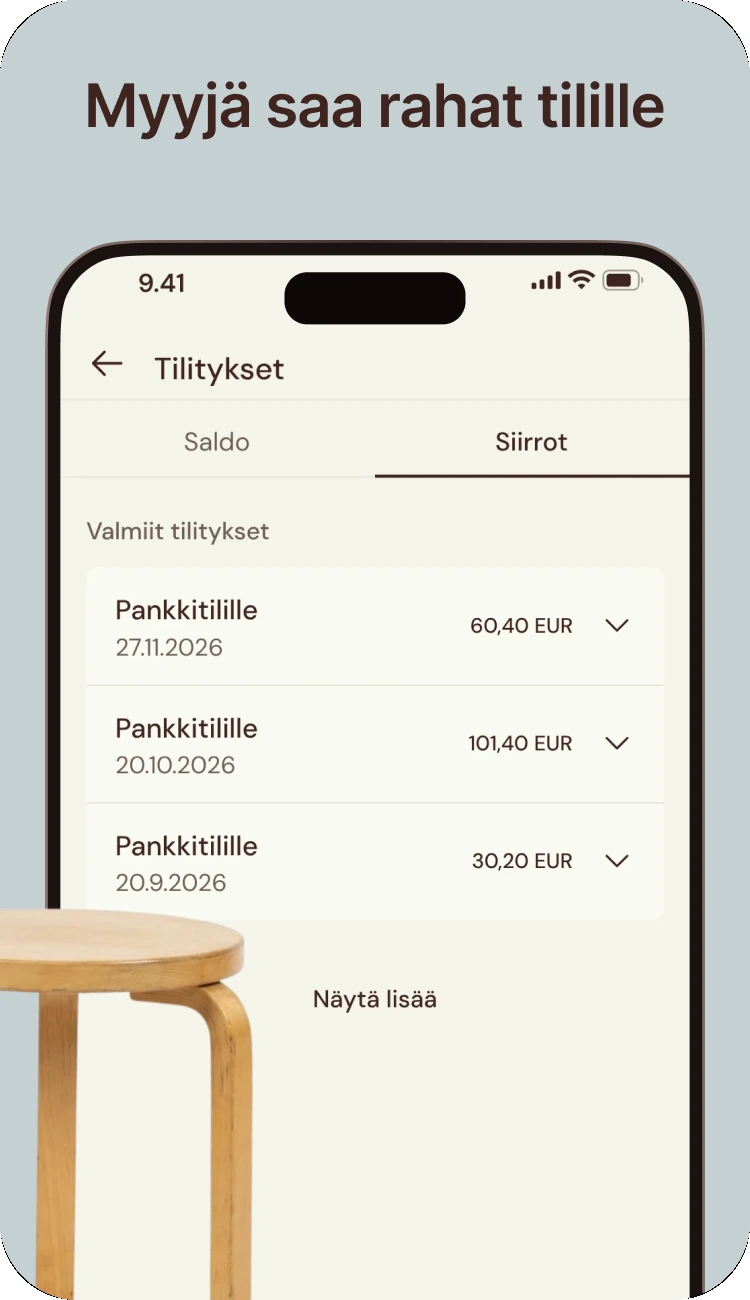
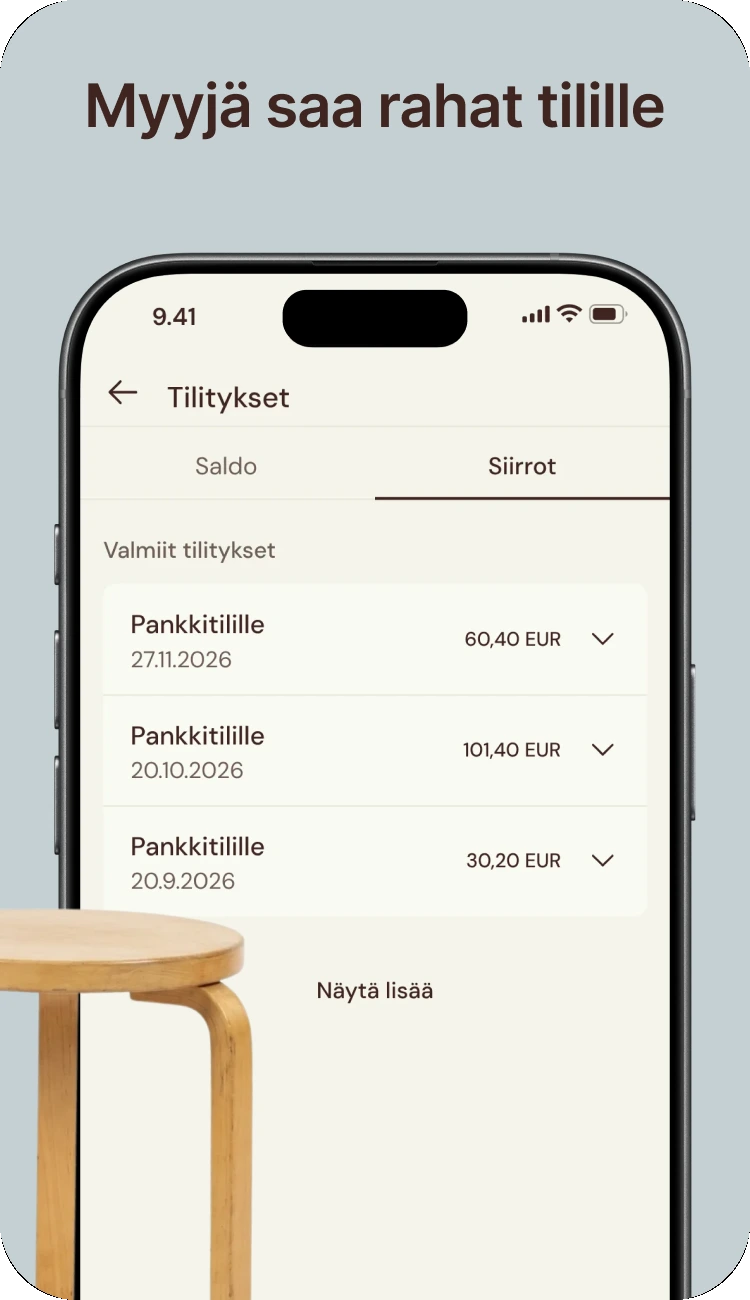
Mockupit Applen virallisiin kehyksiin: iPhone 17 ja iPad Air 11 (desktop, mobiili, Figma)
Claude-Session: https://claude.ai/code/session_01GFdz22wxCZYfy3LenkEfZr

diff --git a/resella.html b/resella.html
@@ -338,11 +338,12 @@ section[id]{scroll-margin-top:72px}
 .ap-grid.on .ap-card:nth-child(2){transition-delay:.08s}.ap-grid.on .ap-card:nth-child(3){transition-delay:.16s}
 .ap-card h3{position:relative;z-index:2;font-family:var(--fd);font-weight:600;font-size:clamp(18px,1.75vw,25px);letter-spacing:-.015em;line-height:1.18;margin:0;padding:clamp(26px,3vw,44px) clamp(22px,2.6vw,40px) 0;max-width:20ch}
 .ap-card.bot h3,.ap-card.photo h3{margin-top:auto;padding:0 clamp(22px,2.6vw,40px) clamp(26px,3vw,44px)}
-.ap-phone{position:absolute;left:50%;width:78%;transform:translateX(-50%);background:#1C1310;border-radius:13.9%/6.8%;padding:2.3%;box-shadow:inset 0 0 0 1.5px rgba(140,120,112,.6);z-index:1}
+.ap-phone{position:absolute;left:50%;width:78%;aspect-ratio:1350/2760;transform:translateX(-50%);z-index:1}
+.ap-phone::after{content:"";position:absolute;inset:0;background:url(assets/laitteet/iphone17-kehys.webp?v=1) center/100% 100% no-repeat;z-index:3;pointer-events:none}
 .ap-card.top .ap-phone{top:26%}
 .ap-card.bot .ap-phone{bottom:27%}
-.ap-phone img{display:block;width:100%;height:auto;border-radius:12.3%/5.8%}
-.ap-isl{position:absolute;top:2.4%;left:50%;width:27.4%;aspect-ratio:120/35;transform:translateX(-50%);background:#0D0806;border-radius:999px;z-index:2}
+.ap-phone img{position:absolute;left:5.33%;top:2.5%;width:89.34%;height:95%;object-fit:cover;object-position:50% 0;border-radius:15.6%/7.17%;display:block;z-index:1}
+.ap-isl{position:absolute;top:3.7%;left:50%;width:28%;aspect-ratio:378/111;transform:translateX(-50%);background:#000;border-radius:999px;z-index:2}
 .ap-rc{position:absolute;left:9%;right:9%;top:42%;background:var(--bg);border-radius:20px;padding:clamp(16px,1.6vw,24px);display:flex;flex-direction:column;gap:clamp(8px,.8vw,12px);font-size:clamp(13px,1.05vw,15px);text-align:left}
 .ap-rc-top,.ap-rc-row,.ap-rc-tot{display:flex;justify-content:space-between;gap:12px}
 .ap-rc-top{font-size:clamp(15px,1.25vw,18px);padding-bottom:clamp(8px,.8vw,12px);border-bottom:1px solid var(--line)}.ap-rc-top span{color:var(--ink-muted)}
@@ -356,8 +357,9 @@ section[id]{scroll-margin-top:72px}
 .ap-dg{position:absolute;inset:0;opacity:0;transition:opacity .6s var(--ease-std)}
 .ap-dg.on{opacity:1}
 .ap-t{position:absolute;height:auto;max-width:none;object-fit:contain;user-select:none}
-.ap-web{position:absolute;left:-20.5%;top:10.4%;width:117%;padding:2.9%;border-radius:4.6%/6.8%;overflow:hidden;background:#1C1310;box-shadow:inset 0 0 0 1.5px rgba(140,120,112,.6);z-index:1}
-.ap-web img{display:block;width:100%;height:auto;border-radius:2%/3%}
+.ap-web{position:absolute;left:-20.5%;top:8%;width:117%;aspect-ratio:2620/1900;z-index:1}
+.ap-web::after{content:"";position:absolute;inset:0;background:url(assets/laitteet/ipadair-kehys.webp?v=1) center/100% 100% no-repeat;z-index:2;pointer-events:none}
+.ap-web img{position:absolute;left:4.96%;top:6.84%;width:90.08%;height:86.32%;object-fit:cover;object-position:0 0;border-radius:1.61%/2.32%;display:block;background:#F4F4EA}
 @media(max-width:820px){.ap-deco{display:none}.ap-web{left:-8%;width:116%;top:12%}}
 .ap-dots{display:flex;justify-content:center;gap:8px;margin-top:clamp(20px,2vw,28px)}
 .ap-dots i{width:8px;height:8px;border-radius:99px;background:var(--line);transition:width .4s var(--ease-std),background-color .4s var(--ease-std)}
@@ -905,10 +907,11 @@ section.fd{background:var(--blue)}
 .m-sl-d i{display:block;width:18px;height:3px;border-radius:2px;background:currentColor;opacity:.35}
 .m-sl-d i.on{width:36px;opacity:1}
 .m-sl--vid::after{display:none}
-.m-pad{position:absolute;left:24px;top:28px;width:165%;aspect-ratio:1576/1084;border-radius:26px;background:#1E1310;padding:9px;box-shadow:0 24px 48px rgba(0,0,0,.35)}
-.m-scr{width:100%;height:100%;border-radius:18px;overflow:hidden;background:#F6F6EE}
+.m-pad{position:absolute;left:24px;top:28px;width:165%;aspect-ratio:2620/1900;filter:drop-shadow(0 24px 30px rgba(0,0,0,.35))}
+.m-pad::after{content:"";position:absolute;inset:0;background:url(assets/laitteet/ipadair-kehys.webp?v=1) center/100% 100% no-repeat;z-index:2;pointer-events:none}
+.m-scr{position:absolute;left:4.96%;top:6.84%;width:90.08%;height:86.32%;border-radius:1.61%/2.32%;overflow:hidden;background:#F6F6EE}
 .m-scr img{display:block;width:100%;height:100%;object-fit:cover;object-position:0 0}
-.m-pl{position:absolute;left:9px;top:9px;bottom:9px;width:calc((100% - 18px) * .56);display:flex;flex-direction:column;justify-content:flex-end;padding:12px 14px;pointer-events:none}
+.m-pl{position:absolute;left:4.96%;top:6.84%;height:86.32%;width:calc(90.08% * .56);z-index:3;display:flex;flex-direction:column;justify-content:flex-end;padding:12px 14px;pointer-events:none}
 .m-pl-t{align-self:flex-start;font:500 11px/1 var(--fd);color:#ECECDC;background:rgba(30,19,16,.72);border-radius:999px;padding:6px 10px}
 .m-pl-b{display:flex;align-items:center;gap:10px;background:rgba(30,19,16,.72);border-radius:999px;padding:7px 12px 7px 10px;color:#ECECDC}
 .m-pl-i{width:0;height:0;border-left:8px solid #ECECDC;border-top:5px solid transparent;border-bottom:5px solid transparent;flex:none}
@@ -1138,11 +1141,11 @@ section.fd{background:var(--blue)}
 <section class="m-sec m-sec--flush" id="m-vaihto">
   <div class="m-car m-car--slides" data-car>
     <figure class="m-sl"><img src="assets/m/sl1.webp?v=2" alt=""><div class="m-sl-top"><h3 class="m-sl-h">Helpotusta vaihtoon</h3><p>Vaihto hoituu ilman, että kirppis menee kiinni.</p></div><figcaption><h3>Esittely</h3><p>Aloitetaan 30 minuutin demolla, jossa näet oman kirppiksesi Resellassa.</p></figcaption></figure>
-    <figure class="m-sl m-sl--light" style="background:#C5D0D3"><img src="assets/m/sb2.webp?v=2" alt="" loading="lazy"><figcaption><h3>Määritys</h3><p>Rakennamme järjestelmän kirppiksesi näköiseksi: pöydät, hinnat, provisio ja oma ilme.</p></figcaption></figure>
+    <figure class="m-sl m-sl--light" style="background:#C5D0D3"><img src="assets/m/sb2.webp?v=3" alt="" loading="lazy"><figcaption><h3>Määritys</h3><p>Rakennamme järjestelmän kirppiksesi näköiseksi: pöydät, hinnat, provisio ja oma ilme.</p></figcaption></figure>
     <figure class="m-sl"><img src="assets/m/sl3.webp?v=1" alt="" loading="lazy"><figcaption><h3>Asennus</h3><p>Tuomme kassan ja laitteet paikan päälle ja asennamme ne valmiiksi.</p></figcaption></figure>
     <figure class="m-sl m-sl--vid"><div class="m-pad"><div class="m-scr"><img src="assets/m/koulutus-ss.webp?v=1" alt="Opetusvideo: kassan käyttö" loading="lazy"></div><div class="m-pl"><div class="m-pl-b"><span class="m-pl-i" aria-hidden="true"></span><span class="m-pl-bar"><i style="width:38%"></i></span><span class="m-pl-time">0:08</span></div></div></div><figcaption><h3>Koulutus</h3><p>Käymme kassan läpi sinun ja henkilökuntasi kanssa.</p></figcaption></figure>
     <figure class="m-sl"><img src="assets/m/sl5.webp?v=1" alt="" loading="lazy"><figcaption><h3>Ensimmäinen myynti</h3><p>Olemme paikalla, kun ensimmäiset tuotteet myydään. Et jää yksin.</p></figcaption></figure>
-    <figure class="m-sl m-sl--light" style="background:#E1E2CD"><img src="assets/m/sb6.webp?v=2" alt="" loading="lazy"><figcaption><h3>Tilitykset</h3><p>Käymme ensimmäiset tilitykset läpi yhdessä.</p></figcaption></figure>
+    <figure class="m-sl m-sl--light" style="background:#E1E2CD"><img src="assets/m/sb6.webp?v=3" alt="" loading="lazy"><figcaption><h3>Tilitykset</h3><p>Käymme ensimmäiset tilitykset läpi yhdessä.</p></figcaption></figure>
   </div>
 </section>
 
@@ -1186,13 +1189,13 @@ section.fd{background:var(--blue)}
     <button role="tab" aria-selected="true" data-tab="0">Myyjä</button><button role="tab" aria-selected="false" data-tab="1">Ostaja</button><button role="tab" aria-selected="false" data-tab="2">Kaikki hyötyvät</button>
   </div>
   <div class="m-car m-car--app on" data-car data-set="0">
-    <img src="assets/m/a1_1.webp?v=9" alt="Varaa paikka puhelimella" loading="lazy"><img src="assets/m/a1_2.webp?v=9" alt="Kuvaa tuote, saat hintaehdotuksen" loading="lazy"><img src="assets/m/a1_3.webp?v=9" alt="Seuraa myyntiä ja tilityksiä" loading="lazy"><img src="assets/m/a1_4.webp?v=9" alt="Oma profiili ja varaukset" loading="lazy"><img src="assets/m/a1_5.webp?v=9" alt="Saldo näkyy heti" loading="lazy"><img src="assets/m/a1_6.webp?v=9" alt="Myy lähikirppiksellä" loading="lazy">
+    <img src="assets/m/a1_1.webp?v=10" alt="Varaa paikka puhelimella" loading="lazy"><img src="assets/m/a1_2.webp?v=10" alt="Kuvaa tuote, saat hintaehdotuksen" loading="lazy"><img src="assets/m/a1_3.webp?v=10" alt="Seuraa myyntiä ja tilityksiä" loading="lazy"><img src="assets/m/a1_4.webp?v=10" alt="Oma profiili ja varaukset" loading="lazy"><img src="assets/m/a1_5.webp?v=10" alt="Saldo näkyy heti" loading="lazy"><img src="assets/m/a1_6.webp?v=10" alt="Myy lähikirppiksellä" loading="lazy">
   </div>
   <div class="m-car m-car--app" data-car data-set="1" hidden>
-    <img src="assets/m/a2_1.webp?v=9" alt="Uudet löydöt joka päivä" loading="lazy"><img src="assets/m/a2_2.webp?v=9" alt="Hae läheltä ja kauempaa" loading="lazy"><img src="assets/m/a2_3.webp?v=9" alt="Varaa ja nouda kirppikseltä" loading="lazy"><img src="assets/m/a2_4.webp?v=9" alt="Hae kuvalla" loading="lazy"><img src="assets/m/a2_5.webp?v=9" alt="Asuideat kirppislöydöistä" loading="lazy"><img src="assets/m/a2_6.webp?v=9" alt="Kauden löydöt koottuna" loading="lazy"><img src="assets/m/a2_7.webp?v=9" alt="Ilmoitus uusista osumista" loading="lazy">
+    <img src="assets/m/a2_1.webp?v=10" alt="Uudet löydöt joka päivä" loading="lazy"><img src="assets/m/a2_2.webp?v=10" alt="Hae läheltä ja kauempaa" loading="lazy"><img src="assets/m/a2_3.webp?v=10" alt="Varaa ja nouda kirppikseltä" loading="lazy"><img src="assets/m/a2_4.webp?v=10" alt="Hae kuvalla" loading="lazy"><img src="assets/m/a2_5.webp?v=10" alt="Asuideat kirppislöydöistä" loading="lazy"><img src="assets/m/a2_6.webp?v=10" alt="Kauden löydöt koottuna" loading="lazy"><img src="assets/m/a2_7.webp?v=10" alt="Ilmoitus uusista osumista" loading="lazy">
   </div>
   <div class="m-car m-car--app" data-car data-set="2" hidden>
-    <img src="assets/m/a3_1.webp?v=9" alt="Myyjä saa rahat tilille" loading="lazy"><img src="assets/m/a3_2.webp?v=9" alt="Ostaja löytää uniikin tuotteen" loading="lazy"><img src="assets/m/a3_3.webp?v=9" alt="Kirppis saa provision" loading="lazy"><img src="assets/m/a3_4.webp?v=9" alt="Hae, varaa ja nouda" loading="lazy"><img src="assets/m/a3_5.webp?v=9" alt="Kaikki hyllyt yhdessä" loading="lazy"><img src="assets/m/a3_6.webp?v=9" alt="Suosikit talteen" loading="lazy">
+    <img src="assets/m/a3_1.webp?v=10" alt="Myyjä saa rahat tilille" loading="lazy"><img src="assets/m/a3_2.webp?v=10" alt="Ostaja löytää uniikin tuotteen" loading="lazy"><img src="assets/m/a3_3.webp?v=10" alt="Kirppis saa provision" loading="lazy"><img src="assets/m/a3_4.webp?v=10" alt="Hae, varaa ja nouda" loading="lazy"><img src="assets/m/a3_5.webp?v=10" alt="Kaikki hyllyt yhdessä" loading="lazy"><img src="assets/m/a3_6.webp?v=10" alt="Suosikit talteen" loading="lazy">
   </div>
 </section>
 
